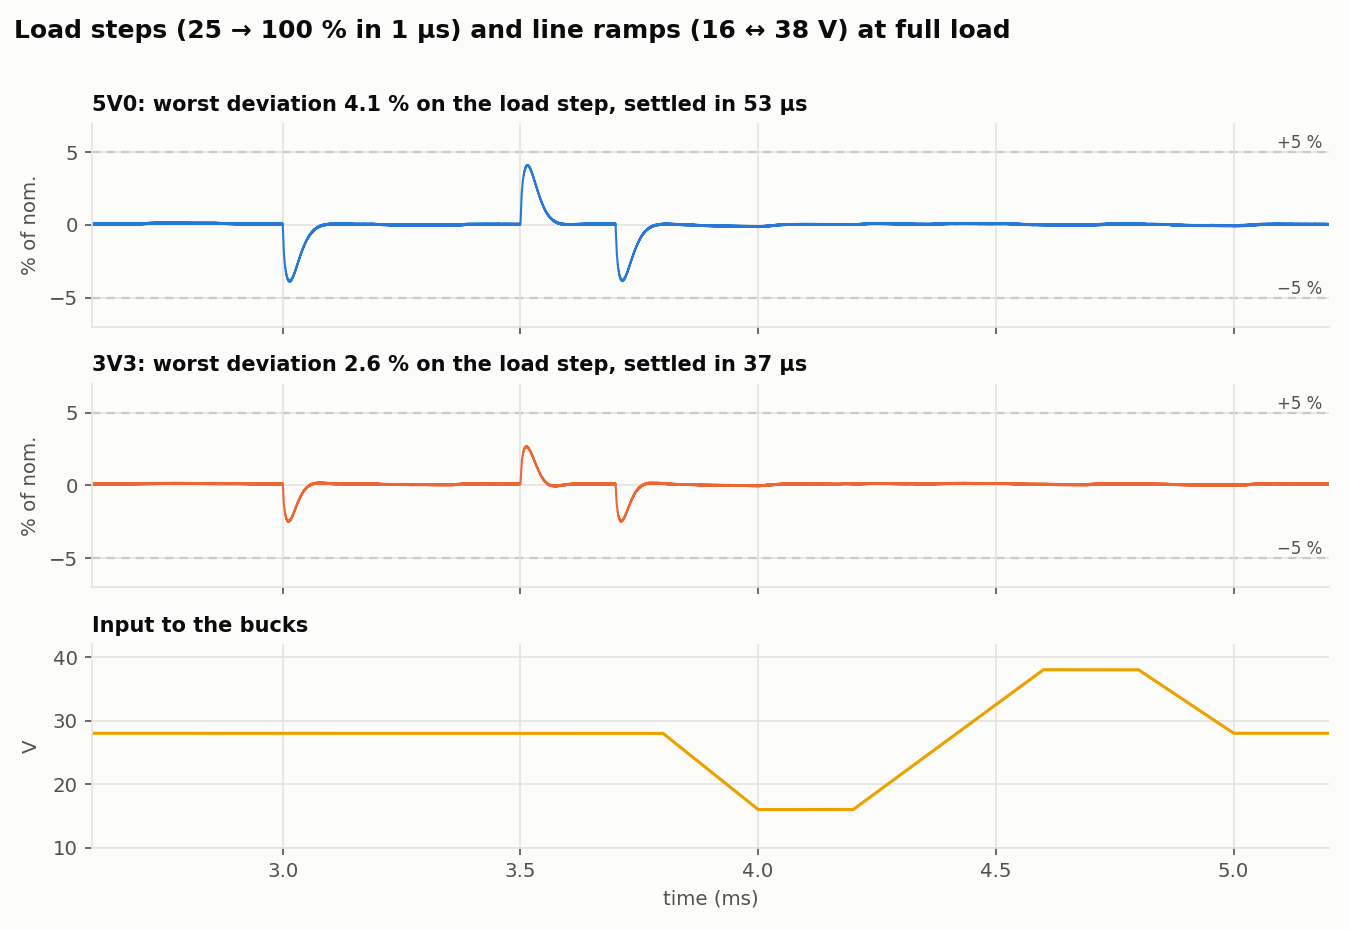
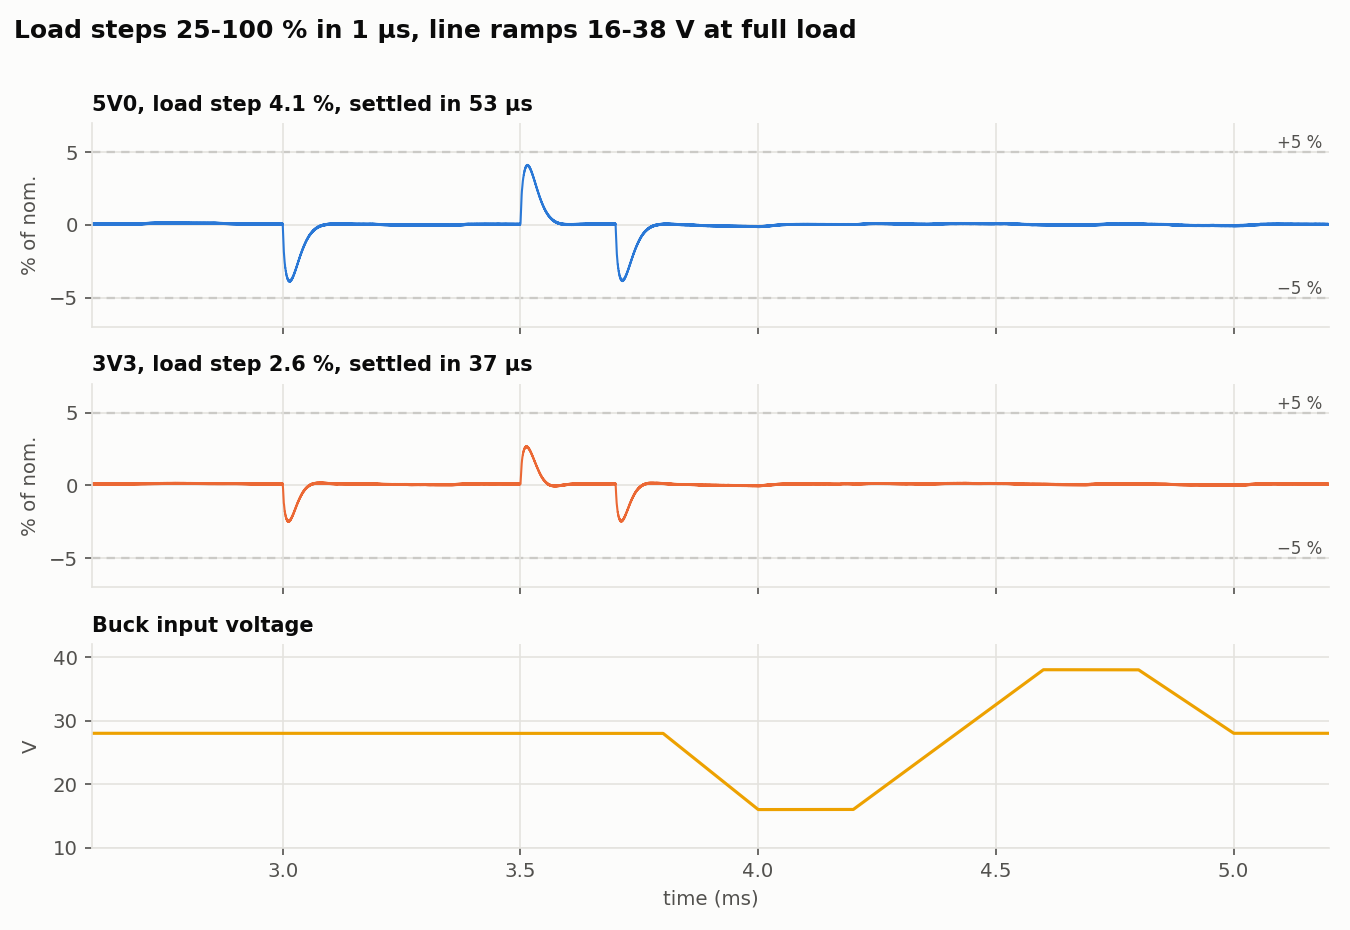
Plain figure titles

diff --git a/sim/run.py b/sim/run.py
@@ -308,7 +308,7 @@ def an_system(w):
     check("Telemetry", "Highest voltage on any telemetry pin", f"{vmax_mon:.2f} V", "≤ 3.3 V (+0.3 V)",
           vmax_mon <= 3.6, "system")
 
-    fig, ax = figure(4, "Hot plug to 28 V: protected bus first, then both rails")
+    fig, ax = figure(4, "Startup, hot plug to 28 V, full load")
     x = ms(w)
     ax[0].plot(x, w["v(in)"], color=C[0], label="VIN (connector)")
     ax[0].plot(x, w["v(vbus)"], color=C[1], label="VBUS (protected)")
@@ -317,26 +317,26 @@ def an_system(w):
     ax[1].plot(x, w["i(rf1)"], color=C[0])
     for a in ax:
         a.axvline(t_en * 1e3, color=INK2, lw=0.8, ls=":")
-    ax[1].annotate("ENOUT: Q1 fully on, bucks released ", (t_en * 1e3, 0.72), fontsize=8.5, color=INK,
+    ax[1].annotate("ENOUT ", (t_en * 1e3, 0.72), fontsize=8.5, color=INK,
                    ha="right", va="center")
     ax[1].set_ylabel("A"); ax[1].set_ylim(0, 0.8)
-    ax[1].set_title(f"Input current: {inrush:.2f} A inrush while the bus charges, then the bucks start")
+    ax[1].set_title(f"Input current, {inrush:.2f} A peak inrush")
     for rail, r, k in (("5V0", RAILS["5V0"], 2), ("3V3", RAILS["3V3"], 3)):
         ax[k].plot(x, w[f"v(v{r['n']})"], color=C[0] if k == 2 else C[1], label=rail)
         ax[k].plot(x, w[f"v(pg{r['n']})"], color=C[2], lw=1.1, label=f"PG{r['n']}")
         limit(ax[k], r["v"] * 1.03, "+3 % overshoot limit", "left")
         ax[k].set_ylim(0, r["v"] * 1.15)
         ax[k].set_ylabel("V"); ax[k].legend(loc="lower right")
-        ax[k].set_title(f"{rail}: in regulation {(out[rail]['t_reg'] - t_uv) * 1e3:.1f} ms after UVLO crossing (limit 10 ms)")
+        ax[k].set_title(f"{rail}, in regulation {(out[rail]['t_reg'] - t_uv) * 1e3:.1f} ms after UVLO crossing (limit 10 ms)")
     ax[-1].set_xlabel("time (ms)")
     save(fig, "startup")
 
-    fig, ax = figure(2, "Steady state at 28 V, both rails at full load (1 µs/div-ish zoom)", 1.6)
+    fig, ax = figure(2, "Output ripple, 28 V input, full load", 1.6)
     m = win(w, 11.9e-3, 11.99e-3)
     for k, (rail, r) in enumerate(RAILS.items()):
         v = w[f"v(v{r['n']})"][m]
         ax[k].plot(w["time"][m] * 1e6, (v - v.mean()) * 1e3, color=C[k])
-        ax[k].set_ylabel("mV (AC)"); ax[k].set_title(f"{rail} ripple: {np.ptp(v) * 1e3:.1f} mVpp (limit 20 mVpp)")
+        ax[k].set_ylabel("mV (AC)"); ax[k].set_title(f"{rail}, {np.ptp(v) * 1e3:.1f} mVpp (limit 20 mVpp)")
         ax[k].set_ylim(-12, 12)
     ax[-1].set_xlabel("time (µs)")
     save(fig, "ripple")
@@ -358,18 +358,18 @@ def an_pulse2a(w):
         dev = max(v.max() - r["v"], r["v"] - v.min()) / r["v"]
         check("Input", f"Pulse 2a: {rail} during the spike", f"{v.min():.3f}–{v.max():.3f} V ({dev * 100:.2f} %)",
               "± 2 %", dev <= 0.02, "pulse2a")
-    fig, ax = figure(3, "ISO 7637-2 pulse 2a: +112 V on the 28 V bus, 2 Ω source", 1.9)
+    fig, ax = figure(3, "ISO 7637-2 pulse 2a, +112 V on 28 V, 2 Ω source", 1.9)
     x = (t[m] - 10e-3) * 1e6
     ax[0].plot(x, w["v(in)"][m], color=C[0], label="VIN (connector)")
     ax[0].plot(x, w["v(nf)"][m], color=C[1], label="after PTC, TVS clamp")
     ax[0].plot(x, w["v(vbus)"][m], color=C[2], label="VBUS (protected)")
     limit(ax[0], 38, "38 V clamp", "right")
-    ax[0].set_ylabel("V"); ax[0].legend(loc="upper right", bbox_to_anchor=(1, 0.85)); ax[0].set_title("Spike is clamped by the TVS; Q1 keeps it off the bus")
+    ax[0].set_ylabel("V"); ax[0].legend(loc="upper right", bbox_to_anchor=(1, 0.85)); ax[0].set_title("Input, TVS node and VBUS")
     ax[1].plot(x, w["i_tvs"][m], color=C[1]); ax[1].set_ylabel("A"); ax[1].set_title(f"TVS current, {itvs:.1f} A peak")
     for k, (rail, r) in enumerate(RAILS.items()):
         ax[2].plot(x, (w[f"v(v{r['n']})"][m] / r["v"] - 1) * 100, color=C[k], label=rail)
     limit(ax[2], 2, "+2 %"); limit(ax[2], -2, "−2 %")
-    ax[2].set_ylim(-3, 3); ax[2].set_ylabel("% of nominal"); ax[2].legend(loc="upper left", ncol=2); ax[2].set_title("Both rails stay in regulation")
+    ax[2].set_ylim(-3, 3); ax[2].set_ylabel("% of nominal"); ax[2].legend(loc="upper left", ncol=2); ax[2].set_title("Output deviation")
     ax[-1].set_xlabel("time from pulse (µs)")
     save(fig, "pulse2a")
 
@@ -393,16 +393,16 @@ def an_loaddump(w):
     RESULTS.append(dict(spec="Stress", item="Q1 load dump", measured=f"{p_pk:.1f} W, {e:.2f} J",
                         limit="", ok=True, bench="loaddump", q1_peak_w=p_pk, q1_energy_j=e,
                         q1_time_s=0.4))
-    fig, ax = figure(3, "ISO 16750-2 suppressed load dump: 58 V, 1 Ω, 400 ms (flat top, harsher than the standard)")
+    fig, ax = figure(3, "ISO 16750-2 suppressed load dump, 58 V, 1 Ω, 400 ms flat top")
     x = ms(w)
     ax[0].plot(x, w["v(in)"], color=C[0], label="VIN (connector)")
     ax[0].plot(x, vb, color=C[1], label="VBUS (protected)")
-    limit(ax[0], 39, "39 V", "left"); limit(ax[0], 16, "16 V: rails' minimum", "left")
+    limit(ax[0], 39, "39 V", "left"); limit(ax[0], 16, "16 V: rails' minimum", "right")
     ax[0].set_ylim(0, 65); ax[0].set_ylabel("V"); ax[0].legend(loc="upper right", bbox_to_anchor=(1, 0.8))
-    ax[0].set_title("The LTC4364 holds the bus at 38 V; the loads never see the surge")
-    ax[1].plot(x, p, color=C[1]); ax[1].set_ylabel("W"); ax[1].set_title(f"Q1 dissipation during the surge: {p_pk:.1f} W, {e:.2f} J")
+    ax[0].set_title("Input and VBUS")
+    ax[1].plot(x, p, color=C[1]); ax[1].set_ylabel("W"); ax[1].set_title(f"Q1 dissipation, {p_pk:.1f} W, {e:.2f} J")
     ax[2].plot(x, w["v(tmr)"], color=C[0]); limit(ax[2], 1.25, "1.25 V: timer expires", "left")
-    ax[2].set_ylim(0, 1.5); ax[2].set_ylabel("V"); ax[2].set_title(f"Fault timer peaks at {tmr:.2f} V and the bus stays up")
+    ax[2].set_ylim(0, 1.5); ax[2].set_ylabel("V"); ax[2].set_title(f"TMR, {tmr:.2f} V peak")
     ax[-1].set_xlabel("time (ms)")
     save(fig, "loaddump")
 
@@ -418,7 +418,7 @@ def an_uvlo(w):
     v_off = float(np.interp(t_off, t, vin))
     check("Input", "Turn-on threshold (UVLO rising)", f"{v_on:.2f} V", "15 V ± 1 V", 14 <= v_on <= 16, "uvlo")
     check("Input", "Turn-off threshold (UVLO falling)", f"{v_off:.2f} V", "below turn-on", v_off < v_on, "uvlo")
-    fig, ax = figure(1, "Undervoltage lockout: slow ramp 0 → 20 V → 0", 2.6)
+    fig, ax = figure(1, "Undervoltage lockout, input ramp 0-20-0 V", 2.6)
     x = ms(w)
     ax[0].plot(x, vin, color=C[0], label="VIN")
     ax[0].plot(x, w["v(vbus)"], color=C[1], label="VBUS")
@@ -454,7 +454,7 @@ def an_overload(w):
     k = np.argmax(p)
     RESULTS.append(dict(spec="Stress", item="Q1 worst operating point in current limit",
                         measured=f"{p[k]:.0f} W at VBUS {v[k]:.1f} V", limit="", ok=True, bench="overload"))
-    fig, ax = figure(1, "Electronic breaker: current limit and foldback (load swept 50 Ω → short)", 3.0)
+    fig, ax = figure(1, "Current limit and foldback, load swept 50 Ω to short", 3.0)
     o = np.argsort(v)
     ax[0].plot(v[o], i[o], color=C[0], label="bus current (A)")
     ax[0].set_xlabel("VBUS (V)"); ax[0].set_ylabel("A")
@@ -464,7 +464,7 @@ def an_overload(w):
                    arrowprops=dict(arrowstyle="-", color=INK2, lw=0.8))
     ax[0].annotate(f"Q1 worst case: {p[k]:.0f} W at {v[k]:.1f} V", (v[k], i[k]), (v[k] + 9, 1.4), fontsize=8.5,
                    arrowprops=dict(arrowstyle="-", color=INK2, lw=0.8))
-    ax[0].set_title("Load pulling the bus down (left to right)")
+    ax[0].set_title("Bus current vs VBUS")
     save(fig, "overload")
 
 
@@ -493,18 +493,18 @@ def an_short(w):
           "retries", bool(retry), "short")
     RESULTS.append(dict(spec="Stress", item="Q1 dead short pulse", measured=f"{f['mean']:.0f} W for {f['dur'] * 1e3:.0f} ms",
                         limit="", ok=True, bench="short", q1_peak_w=f["peak"], q1_energy_j=f["energy"], q1_time_s=f["dur"]))
-    fig, ax = figure(3, "Dead short on the bus: limit, fold back, time out, retry", 1.75)
+    fig, ax = figure(3, "Dead short on VBUS", 1.75)
     m = t < 0.3
     x = t[m] * 1e3
     ax[0].plot(x, w["i(rsns)"][m], color=C[0]); ax[0].set_ylim(0, 3); ax[0].set_ylabel("A")
-    ax[0].set_title(f"Bus current: folds back to {fold:.2f} A, off after {f['dur'] * 1e3:.0f} ms")
+    ax[0].set_title(f"Bus current, {fold:.2f} A foldback, off after {f['dur'] * 1e3:.0f} ms")
     ax[1].plot(x, w["v(tmr)"][m], color=C[1]); limit(ax[1], 1.25, "1.25 V", "left"); ax[1].set_ylabel("V"); ax[1].set_title("Fault timer")
-    ax[2].plot(x, w["v(flt)"][m], color=C[2]); ax[2].set_ylabel("V"); ax[2].set_title("FLT (to the MCU)")
+    ax[2].plot(x, w["v(flt)"][m], color=C[2]); ax[2].set_ylabel("V"); ax[2].set_title("FLT")
     ax[-1].set_xlabel("time (ms)")
     save(fig, "short")
-    fig, ax = figure(1, f"Auto-retry with the short still present: one attempt every {retry[0] - 30e-3:.0f} s" if retry else "Auto-retry", 2.2)
+    fig, ax = figure(1, f"Auto-retry into a sustained short, period {retry[0] - 30e-3:.0f} s" if retry else "Auto-retry", 2.2)
     ax[0].plot(t, w["i(rsns)"], color=C[0]); ax[0].set_ylabel("A"); ax[0].set_xlabel("time (s)"); ax[0].set_ylim(0, 3)
-    ax[0].set_title("Bus current over 300 s (the 32-cycle TMR cool-down sets the retry period)")
+    ax[0].set_title("Bus current")
     save(fig, "retry")
 
 
@@ -517,7 +517,7 @@ def an_partial(w):
 
 def an_bucks(w):
     t = w["time"]
-    fig, ax = figure(3, "Load steps (25 → 100 % in 1 µs) and line ramps (16 ↔ 38 V) at full load", 1.8)
+    fig, ax = figure(3, "Load steps 25-100 % in 1 µs, line ramps 16-38 V at full load", 1.8)
     for k, (rail, r) in enumerate(RAILS.items()):
         v = w[f"v(v{r['n']})"]
         pre, full, post = mean(w, f"v(v{r['n']})", 2.8e-3, 3e-3), mean(w, f"v(v{r['n']})", 3.4e-3, 3.5e-3), \
@@ -535,9 +535,9 @@ def an_bucks(w):
         ax[k].plot(ms(w), (v / r["v"] - 1) * 100, color=C[k], lw=1.0)
         limit(ax[k], 5, "+5 %"); limit(ax[k], -5, "−5 %")
         ax[k].set_ylim(-7, 7); ax[k].set_ylabel("% of nom.")
-        ax[k].set_title(f"{rail}: worst deviation {dev * 100:.1f} % on the load step, settled in {settle * 1e6:.0f} µs")
+        ax[k].set_title(f"{rail}, load step {dev * 100:.1f} %, settled in {settle * 1e6:.0f} µs")
     ax[2].plot(ms(w), w["v(vbus)"], color=C[3], label="VIN of the bucks")
-    ax[2].set_ylabel("V"); ax[2].set_ylim(10, 42); ax[2].set_title("Input to the bucks")
+    ax[2].set_ylabel("V"); ax[2].set_ylim(10, 42); ax[2].set_title("Buck input voltage")
     for a in ax:
         a.set_xlim(2.6, 5.2)
     ax[-1].set_xlabel("time (ms)")
@@ -546,7 +546,7 @@ def an_bucks(w):
 
 def an_railshort(w):
     t = w["time"]
-    fig, ax = figure(2, "Output short circuit, then release", 1.9)
+    fig, ax = figure(2, "Output short circuit and release", 1.9)
     for k, (rail, r, t0) in enumerate((("5V0", RAILS["5V0"], 2.5e-3), ("3V3", RAILS["3V3"], 4.0e-3))):
         v, il = w[f"v(v{r['n']})"], w[f"i(l{r['n']})"]
         sc = win(w, t0 + 0.1e-3, t0 + 1e-3)
@@ -561,7 +561,7 @@ def an_railshort(w):
         ax[k].plot(ms(w), il, color=C[2], lw=0.8, label="inductor current (A)")
         ax[k].set_ylabel("V  /  A"); ax[k].legend(loc="upper right")
         ax[k].axvspan(t0 * 1e3, (t0 + 1e-3) * 1e3, color=GRID, alpha=0.6, lw=0)
-        ax[k].set_title(f"{rail} shorted for 1 ms (shaded): limit {ipk:.1f} A peak, recovers in {t_rec * 1e3:.2f} ms")
+        ax[k].set_title(f"{rail} shorted 1 ms (shaded), {ipk:.1f} A peak, recovery {t_rec * 1e3:.2f} ms")
     ax[-1].set_xlabel("time (ms)")
     save(fig, "railshort")
 
